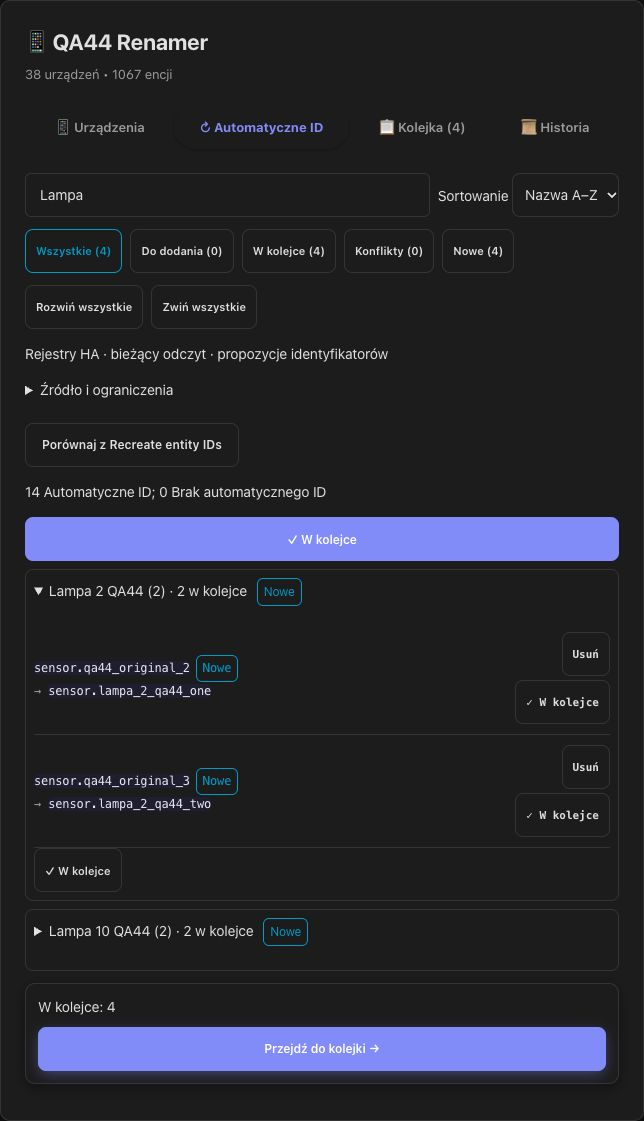
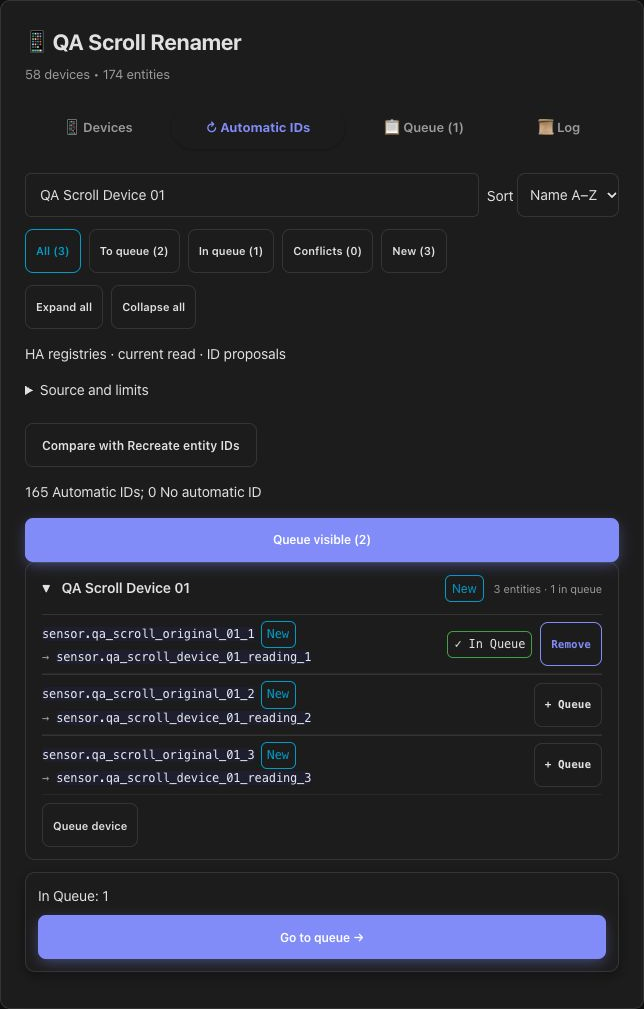
docs: refresh native 4.4.1 previews and screenshot provenance

diff --git a/README.md b/README.md
@@ -179,13 +179,15 @@ See [SECURITY.md](SECURITY.md) for safe vulnerability reporting and [NOTICE](NOT
 
 Devices and Automatic IDs share natural name sorting in the Home Assistant language. Use the search and counted filters **All**, **To queue**, **In queue**, **Conflicts** and **New**. Conflicts refer to the current Automatic IDs comparison; run the comparison to discover them. Changing a filter does not change the queue. **Queue visible (N)** and per-device actions add only the visible matching eligible proposals.
 
+Adding or removing proposals keeps the list position, expanded groups and keyboard focus. Queued status is text beside a single **Remove** action. Devices and Automatic IDs share the same headers and entity counts.
+
 **New** means created in the Home Assistant registry within the last seven days; migrated entries with an unknown creation time are not marked. Choose **Newest** or **Name A–Z / Z–A** and expand or collapse groups.
 
 The queue groups proposals by device and shows their source: Automatic IDs, Manual or Prefix. Removing one proposal offers **Undo** for eight seconds and restores the same proposal at its original position. Clear, opening confirmation, disconnecting or changing accounts cancels undo. The queue bar also includes queued device-name changes. Applying changes retains the existing administrator permission, impact review and explicit confirmation.
 
 #### Automatic IDs preview
 
-The screenshots below show synthetic devices on Home Assistant, with four local proposals and no registry writes. The search matches two devices; queued counts remain visible when a group is collapsed.
+The screenshots below show a synthetic Home Assistant fixture. The search matches three entities on one QA device, with one local proposal and no registry writes. Queued entities show a text status and one Remove action.
 
 <picture>
   <source media="(prefers-color-scheme: dark)" srcset="docs/screenshots/card-automatic-dark.png">

diff --git a/CHANGELOG.md b/CHANGELOG.md
@@ -3,7 +3,7 @@
 ## 4.4.1 (2026-10-17)
 
 - Preserve list position, expanded groups and logical keyboard focus when queuing or removing Automatic ID proposals and expanding Devices. Filtered rows that disappear no longer pull the viewport toward their group header.
-- Show queued entities with a text status and one Remove action. Use consistent device headers, entity counts and separators in Devices and Automatic IDs.
+- Show queued entities with a readable, theme-aware text status and one Remove action. Use consistent device headers, entity counts and separators in Devices and Automatic IDs.
 - Display history dates in the browser/system time zone by default, respecting explicit Home Assistant local/server, date language and 12/24-hour preferences. Refresh open history when those preferences change and retain raw timestamps in Time details.
 
 ## 4.4.0 (2026-10-16)
